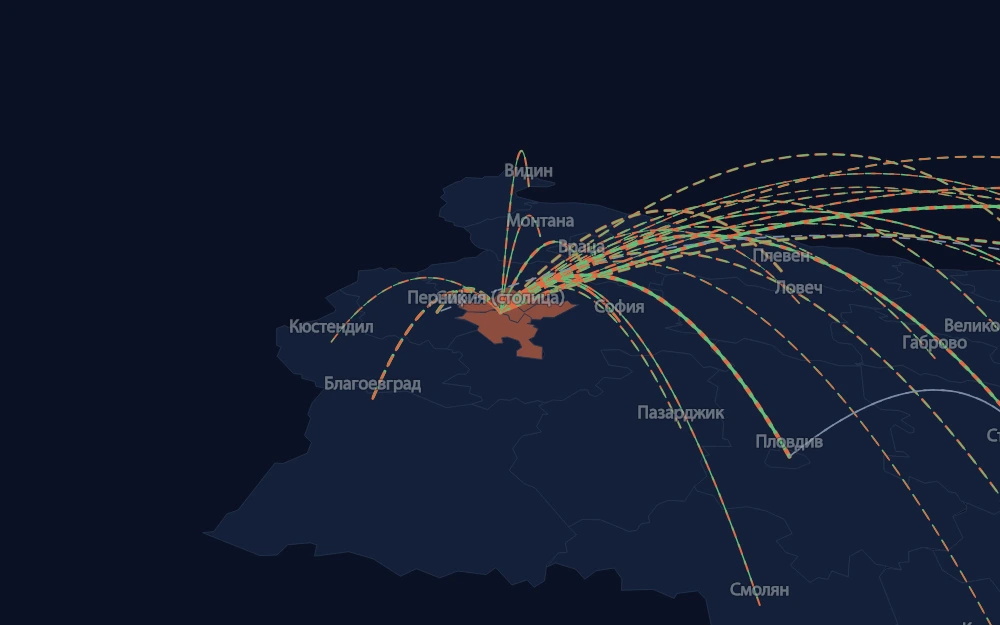
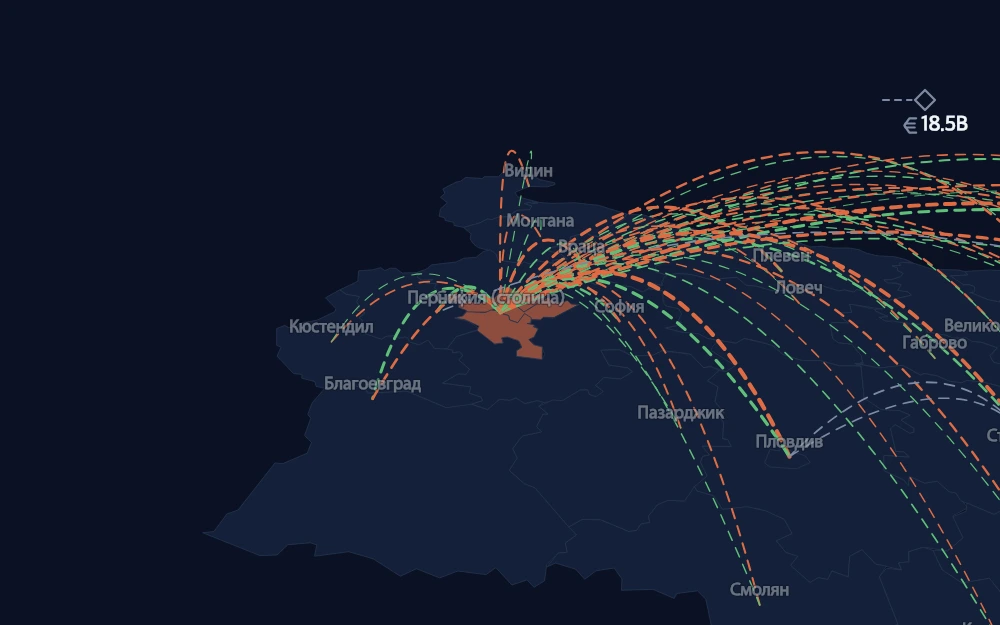
flyover tier3 step 12: make unplaced money visible off-map

diff --git a/src/lib/flyover/render.ts b/src/lib/flyover/render.ts
@@ -89,6 +89,84 @@ interface Drawable {
 
 const CAPITAL = "SOF";
 
+/**
+ * The one endpoint that deliberately has no place on the map (plan §7 step 4).
+ *
+ * `coverage.unplaced.notInTr` combines foreign suppliers and Bulgarian public bodies that
+ * have no Commerce-Registry row. Giving either population an oblast would be a guess, so the
+ * renderer keeps the amount in SCREEN space, beyond the geography, instead of inventing a
+ * world coordinate. The first arcs caption names what the marker means; the canvas carries
+ * only the euro figure, preserving the rule that translatable prose stays in the DOM.
+ */
+const drawOffMapEndpoint = (
+  ctx: Ctx2D,
+  eur: number,
+  palette: FlyoverPalette,
+  alpha: number,
+  viewport: Viewport,
+): void => {
+  if (!(eur > 0) || !(alpha > 0)) return;
+
+  const r = Math.max(6, Math.min(12, Math.min(viewport.w, viewport.h) * 0.016));
+  const x = viewport.w - Math.max(42, viewport.w * 0.075);
+  const y = Math.max(36, viewport.h * 0.16);
+  const label = `${(eur / 1e9).toFixed(1)}B`;
+
+  ctx.save();
+  ctx.globalAlpha = alpha;
+  ctx.strokeStyle = palette.arcNeutral;
+  ctx.fillStyle = palette.arcNeutral;
+  ctx.lineWidth = Math.max(1.5, r * 0.22);
+  ctx.lineCap = "round";
+  ctx.setLineDash([Math.max(3, r * 0.6), Math.max(3, r * 0.6)]);
+  ctx.beginPath();
+  ctx.moveTo(x - r * 4.2, y);
+  ctx.lineTo(x - r * 1.35, y);
+  ctx.stroke();
+
+  // An open diamond: a destination outside the mapped key space, not a 29th oblast.
+  ctx.setLineDash([]);
+  ctx.beginPath();
+  ctx.moveTo(x, y - r);
+  ctx.lineTo(x + r, y);
+  ctx.lineTo(x, y + r);
+  ctx.lineTo(x - r, y);
+  ctx.closePath();
+  ctx.stroke();
+
+  const amountTop = y + r + 5;
+  const amountPx = Math.max(10, Math.round(viewport.h / 30));
+  const euroX = x - r * 1.35;
+  const euroY = amountTop + amountPx * 0.5;
+  const euroR = amountPx * 0.34;
+  // Draw the currency mark as geometry. The portable Node-canvas fallback used for the
+  // committed posters has no € glyph; putting it in `fillText` renders a tofu box even though
+  // the browser is fine. Two short bars across an open, angular C remain legible at 10 px.
+  ctx.beginPath();
+  ctx.moveTo(euroX + euroR * 0.65, euroY - euroR);
+  ctx.lineTo(euroX - euroR * 0.3, euroY - euroR);
+  ctx.lineTo(euroX - euroR, euroY);
+  ctx.lineTo(euroX - euroR * 0.3, euroY + euroR);
+  ctx.lineTo(euroX + euroR * 0.65, euroY + euroR);
+  ctx.stroke();
+  ctx.beginPath();
+  ctx.moveTo(euroX - euroR * 0.85, euroY - euroR * 0.28);
+  ctx.lineTo(euroX + euroR * 0.45, euroY - euroR * 0.28);
+  ctx.moveTo(euroX - euroR * 0.85, euroY + euroR * 0.28);
+  ctx.lineTo(euroX + euroR * 0.45, euroY + euroR * 0.28);
+  ctx.stroke();
+
+  ctx.textAlign = "left";
+  ctx.textBaseline = "top";
+  ctx.font = fontFor(amountPx);
+  ctx.lineWidth = 3;
+  ctx.strokeStyle = palette.labelHalo;
+  ctx.fillStyle = palette.label;
+  ctx.strokeText(label, x - r * 0.4, amountTop);
+  ctx.fillText(label, x - r * 0.4, amountTop);
+  ctx.restore();
+};
+
 const fontFor = (px: number): string =>
   `600 ${px}px system-ui, -apple-system, "Segoe UI", Roboto, sans-serif`;
 
@@ -227,9 +305,22 @@ const drawArc = (
   const az = a[1] / 10;
   const bx = b[0] / 10;
   const bz = b[1] / 10;
-  const lift = arcLift(bx - ax, bz - az);
+  const dx = bx - ax;
+  const dz = bz - az;
+  const length = Math.hypot(dx, dz) || 1;
+  const lift = arcLift(dx, dz);
+  // Reciprocal flows must not occupy the SAME Bézier. The direction's left-hand normal
+  // reverses with it, so A→B and B→A bend to opposite sides without another identity or a
+  // special case. Static posters can now distinguish the two colours; animation direction is
+  // no longer the only evidence that two quantities are present.
+  const bend = Math.min(18, length * 0.12);
+  const nx = -dz / length;
+  const nz = dx / length;
   const p0 = project([ax, 0, az], basis);
-  const p1 = project([(ax + bx) / 2, lift, (az + bz) / 2], basis);
+  const p1 = project(
+    [(ax + bx) / 2 + nx * bend, lift, (az + bz) / 2 + nz * bend],
+    basis,
+  );
   const p2 = project([bx, 0, bz], basis);
   if (!p0 || !p1 || !p2) return null;
   const width = arcWidth(flow.eur, maxEur);
@@ -380,6 +471,21 @@ export const render = (
 
   raised.sort((a, b) => b.depth - a.depth);
   for (const r of raised) r.draw();
+
+  // This is NOT another flow cell: the corpus has no contractor oblast to put on the other
+  // end. One aggregate endpoint and its euro amount make the missing geography visible without
+  // manufacturing a location or implying that the map's 28×28 matrix contains it.
+  // A collapsed camera projects no country; do not leave a contextless euro marker floating
+  // on an otherwise blank frame. `polys` is the rendering result, not a second validity rule.
+  if (polys.length > 0) {
+    drawOffMapEndpoint(
+      ctx,
+      world.flows.coverage.unplaced.notInTr,
+      palette,
+      state.arcs,
+      viewport,
+    );
+  }
 
   // ── city labels ─────────────────────────────────────────────────────────────────────
   if (state.labels > 0) {

diff --git a/src/lib/flyover/render.test.ts b/src/lib/flyover/render.test.ts
@@ -96,6 +96,39 @@ describe("render", () => {
     expect(arcs.length).toBeLessThanOrEqual(6);
   });
 
+  it("bends reciprocal flows onto distinguishable curves", () => {
+    const curves = draw(state({ arcs: 1 }), { maxFlows: 6 }).ops(
+      "quadraticCurveTo",
+    );
+    expect(curves).toHaveLength(6);
+    // The three reciprocal pairs used to share three control points exactly, leaving one
+    // colour painted over the other. A direction-sensitive perpendicular produces six.
+    expect(
+      new Set(curves.map((c) => JSON.stringify(c.args.slice(0, 2)))).size,
+    ).toBe(curves.length);
+  });
+
+  it("renders non-TR money once, beyond the map, without inventing an oblast", () => {
+    const flat = draw(state());
+    expect(flat.ops("fillText")).toHaveLength(0);
+
+    const arcs = draw(state({ arcs: 1 }));
+    const labels = arcs.ops("fillText").map((c) => c.args[0]);
+    // The fixture's 18.48bn is one aggregate marker — not one guessed endpoint per buyer —
+    // and the notation is language-neutral because the DOM caption owns the explanation.
+    expect(labels).toEqual(["18.5B"]);
+    expect(arcs.ops("strokeText").map((c) => c.args[0])).toEqual(labels);
+    expect(String(labels[0])).not.toMatch(/[\u0400-\u04ff]/);
+
+    // The endpoint is screen-space by design, so it remains visible on the narrow rendering
+    // while the flow count falls from 40 to 20.
+    const narrow = draw(state({ arcs: 1 }), {
+      viewport: { w: 320, h: 200 },
+      maxFlows: 2,
+    });
+    expect(narrow.ops("fillText").map((c) => c.args[0])).toEqual(labels);
+  });
+
   it("moves the arc dash with the clock, and nothing else", () => {
     const s = state({ arcs: 1 });
     const a = draw(s, { clock: 0 });
@@ -296,6 +329,10 @@ describe("render", () => {
     );
     expect(rec.ops("fill")).toHaveLength(0);
     expect(rec.ops("clearRect")).toHaveLength(1);
+    expect(rec.ops("stroke")).toHaveLength(0);
+    expect(rec.ops("fillText")).toHaveLength(0);
+    expect(rec.ops("strokeText")).toHaveLength(0);
+    expect(rec.ops("quadraticCurveTo")).toHaveLength(0);
   });
 });
 

diff --git a/src/lib/flyover/programmes/arcs.ts b/src/lib/flyover/programmes/arcs.ts
@@ -10,6 +10,10 @@
 // members in more than one oblast. Naming a specific Plovdiv→Sofia pair before saying that
 // would hand the reader a precision the picture does not have.
 //
+// The other deliberately placeless population is visible as ONE off-map endpoint throughout
+// this programme. Its euro figure comes from `coverage.unplaced.notInTr`; no buyer is connected
+// to it, because the artifact carries no defensible contractor oblast for that money.
+//
 // The camera stays flat-ish and turns slowly: an arc reads as a direction only if the viewer
 // can see both of its ends, which a steep pitch takes away.
 //
